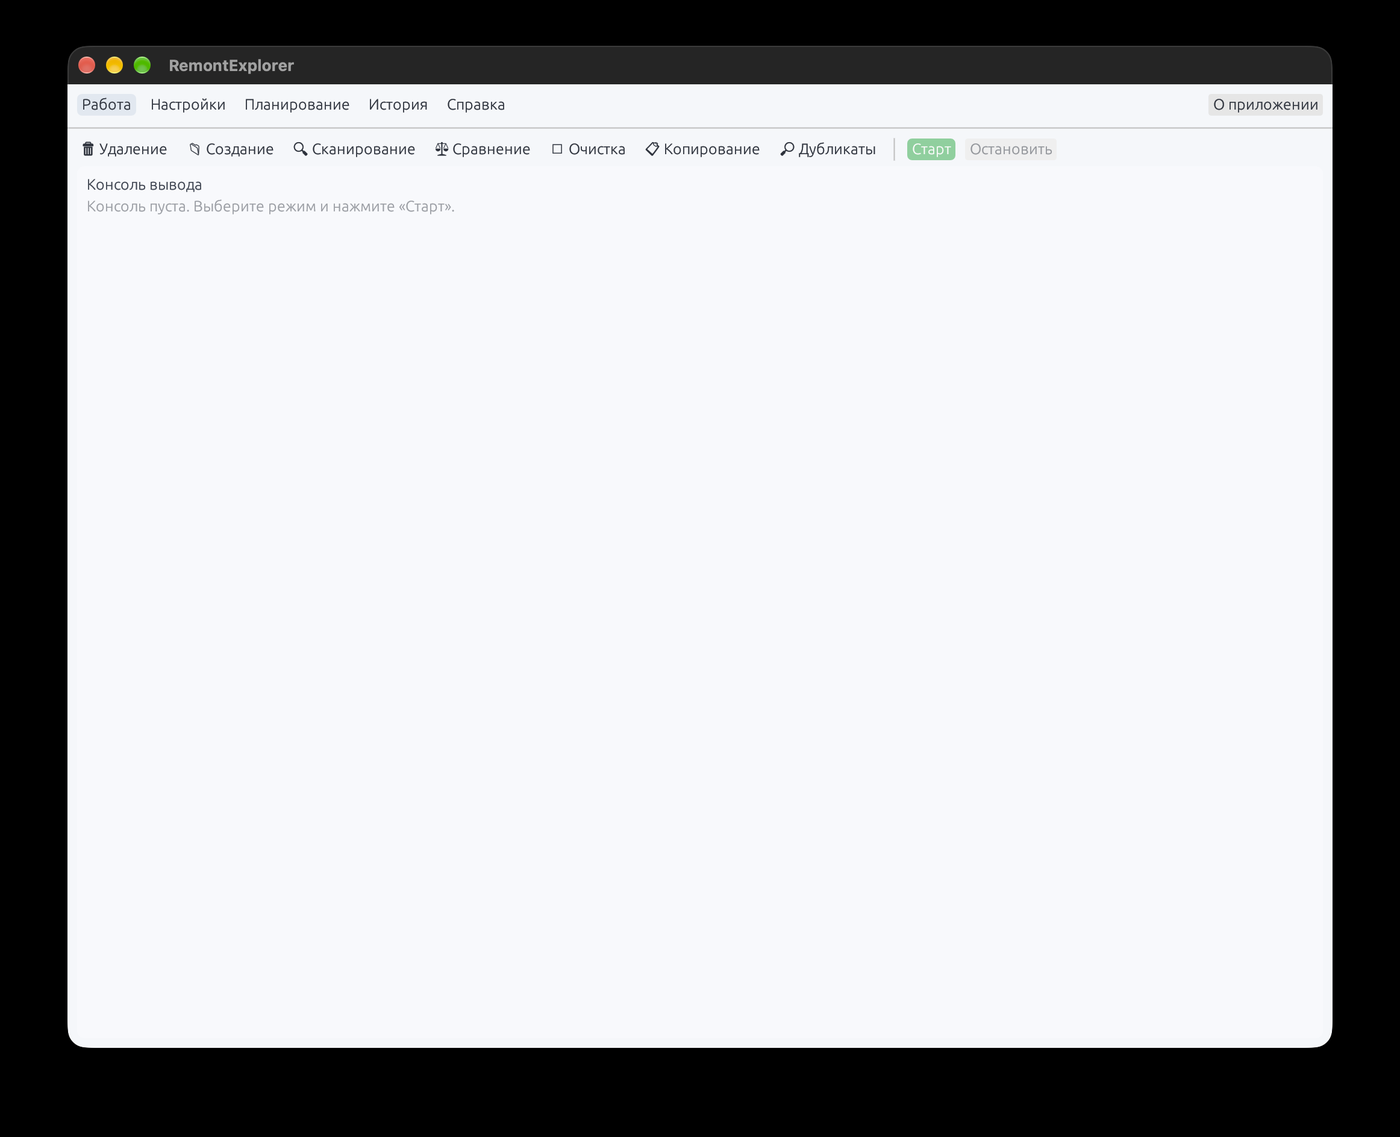
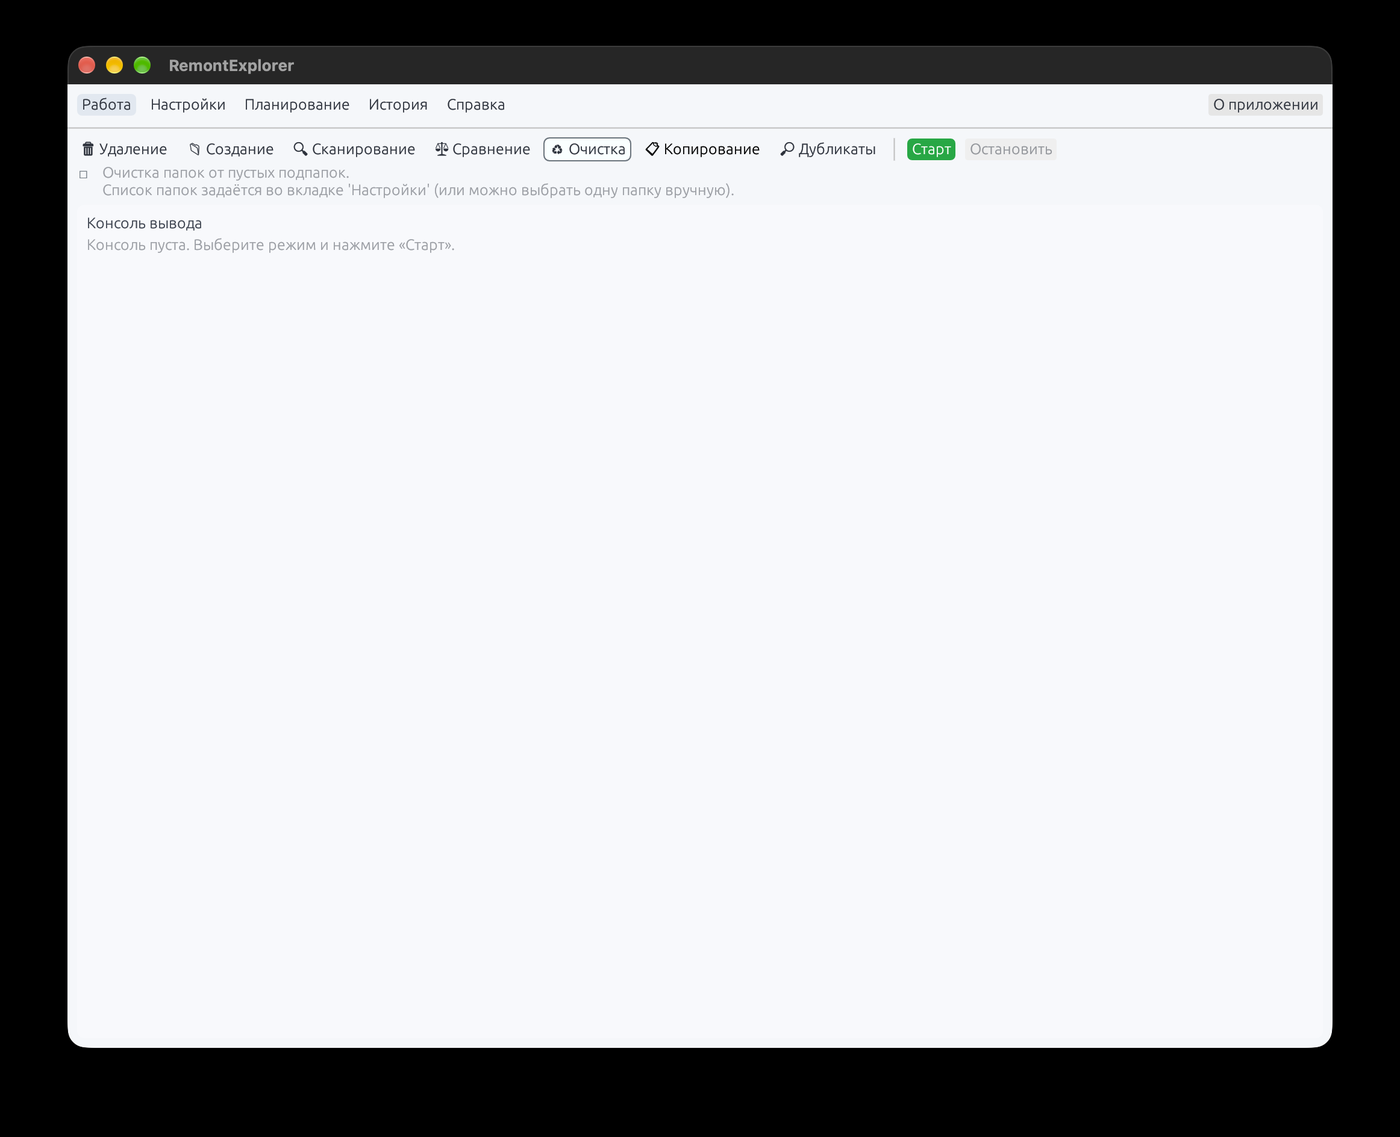
2.3.4: иконка очистки и перенос ряда режимов

Changed region(s): [[0.0614, 0.1231, 0.5221, 0.2155], [0.645, 0.1231, 0.7064, 0.1539]]

diff --git a/gui/src/main.rs b/gui/src/main.rs
@@ -1245,12 +1245,13 @@ impl App {
             ("mode.create", "📁"),
             ("mode.scan", "🔍"),
             ("mode.compare", "⚖"),
-            ("mode.cleanup", "🧹"),
+            ("mode.cleanup", "♻"),
             ("mode.copy", "📋"),
             ("mode.duplicates", "🔎"),
         ];
 
-        ui.horizontal(|ui| {
+        // Перенос вместо обрезки: при узком окне «Дубликаты» уезжали за край.
+        ui.horizontal_wrapped(|ui| {
             for (i, def) in MODES.iter().enumerate() {
                 let (key, icon) = mode_names[i];
                 let label = self.t(key);
@@ -5323,6 +5324,24 @@ mod tests {
             !block.contains("ui.add_space("),
             "перед флажками Windows осталась отбивка"
         );
+    }
+
+
+    /// Иконки режимов есть в шрифте egui: 🧹 (U+1F9F9) отсутствовала и
+    /// рисовалась пустым квадратом. Ряд режимов переносится, а не обрезается.
+    #[test]
+    fn mode_icons_render_and_row_wraps() {
+        let src = include_str!("main.rs");
+        let code = &src[..src.find("#[cfg(test)]").expect("нет тестов")];
+        assert!(!code.contains('\u{1F9F9}'), "вернулась иконка без глифа (🧹)");
+        assert!(!code.contains("🧹"), "вернулась иконка без глифа");
+        let start = code.find("modes_row").unwrap_or(0);
+        let panel = &code[code.find("fn work_tab").unwrap()..];
+        assert!(
+            panel.contains("ui.horizontal_wrapped(|ui|"),
+            "ряд режимов не переносится — кнопки обрезаются"
+        );
+        let _ = start;
     }
 
 }
